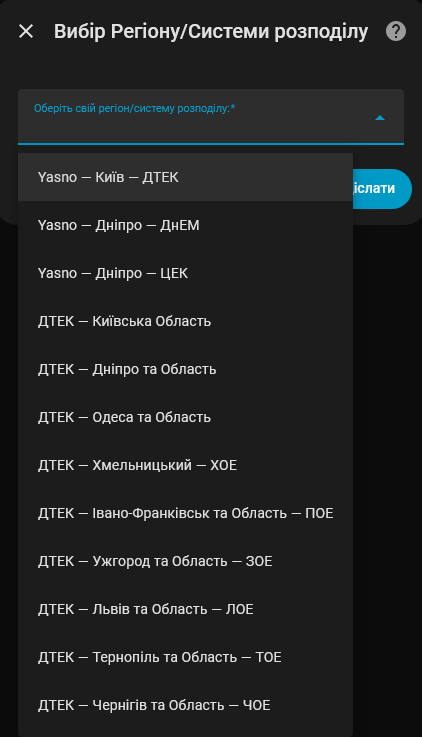
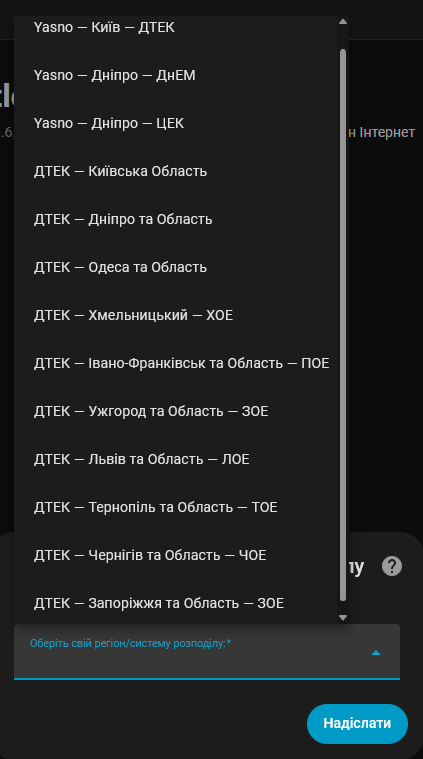
add Zaporizhzhia

diff --git a/custom_components/svitlo_yeah/const.py b/custom_components/svitlo_yeah/const.py
@@ -88,4 +88,7 @@ DTEK_PROVIDER_URLS: dict[str, list[str]] = {
     "chernihiv": [
         "https://github.com/yaroslav2901/OE_OUTAGE_DATA/raw/main/data/Chernihivoblenergo.json",
     ],
+    "zaporizhzhia": [
+        "https://github.com/yaroslav2901/OE_OUTAGE_DATA/raw/main/data/Chernihivoblenergo.json",
+    ],
 }

diff --git a/README.md b/README.md
@@ -30,6 +30,7 @@ A [Home Assistant][home-assistant] integration that tracks electricity outage sc
 | **Lviv and Oblast**            | LOE      | [yaroslav2901/OE_OUTAGE_DATA](https://github.com/yaroslav2901/OE_OUTAGE_DATA/blob/main/data/Lvivoblenerho.json)         |
 | **Ternopil and Oblast**        | TOE      | [yaroslav2901/OE_OUTAGE_DATA](https://github.com/yaroslav2901/OE_OUTAGE_DATA/blob/main/data/Ternopiloblenerho.json)     |
 | **Chernihiv and Oblast**       | CHOE     | [yaroslav2901/OE_OUTAGE_DATA](https://github.com/yaroslav2901/OE_OUTAGE_DATA/blob/main/data/Chernihivoblenergo.json)    |
+| **Zaporizhzhia and Oblast**    | ZOE      | [yaroslav2901/OE_OUTAGE_DATA](https://github.com/yaroslav2901/OE_OUTAGE_DATA/blob/main/data/Zaporizhzhiaoblenergo.json) |
 
 
 ## Installation
